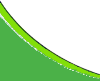
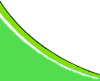
best look a browser can get

diff --git a/chrome/css/tabs_styles.css b/chrome/css/tabs_styles.css
@@ -51,6 +51,7 @@
     background-size: cover;
     transform: translateY(6px) translateX(-4px) ;
     border-bottom: 1px solid white;
+    filter: grayscale(40%) brightness(0.9);
 
 }
 #TabsToolbar:not(:-moz-lwtheme) .tabbrowser-tab[selected]::before{
@@ -62,6 +63,7 @@
     transform: translateY(6px) translateX(4px) scaleX(-1);
     z-index: 1;
     border-bottom: 1px solid white;
+    filter: grayscale(40%) brightness(0.9);
 }
 #TabsToolbar:not(:-moz-lwtheme) .tabbrowser-tab::after{
     content:"";

diff --git a/chrome/css/library.css b/chrome/css/library.css
@@ -39,7 +39,7 @@
   border-bottom: 1px solid ThreeDShadow !important;
   color: #fff !important;
 }
-#placesToolbar *{
+#placesToolbar *:not(#searchFilter){
   color: #fff !important;
 
 }
